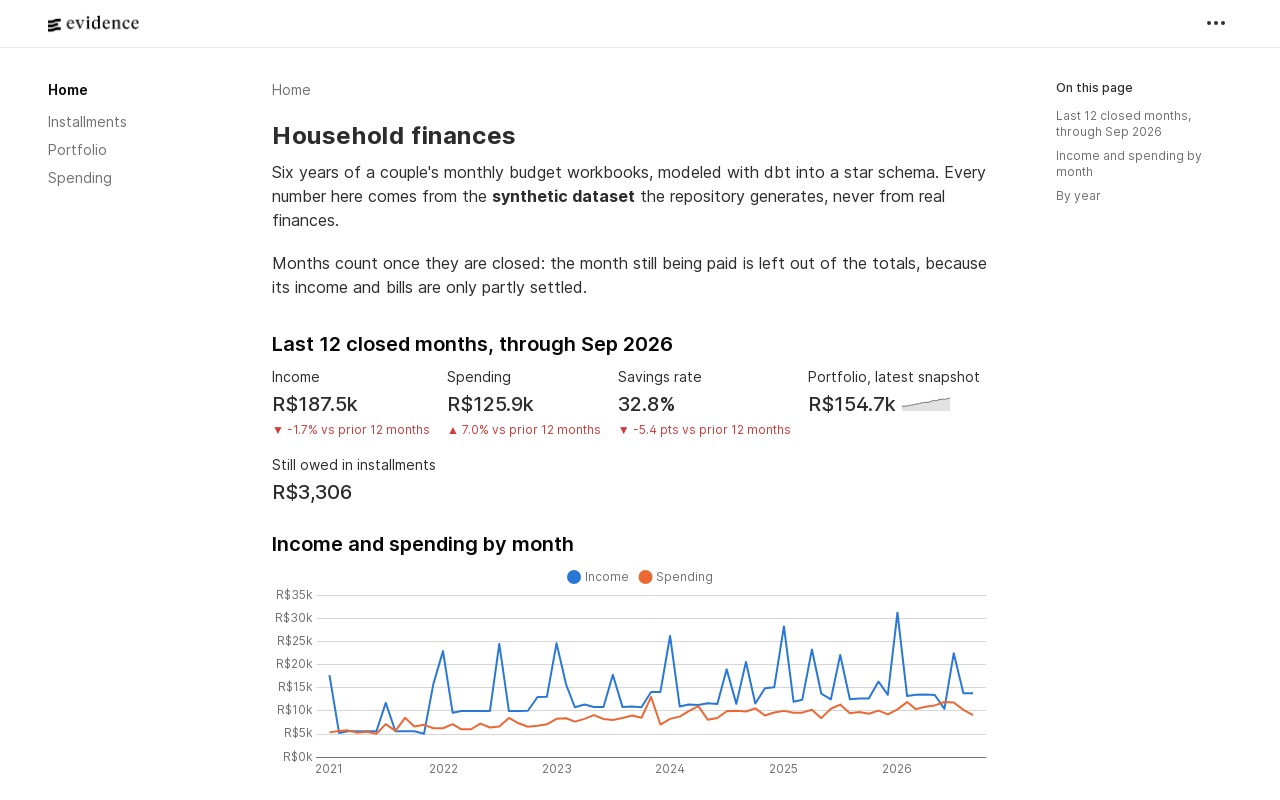
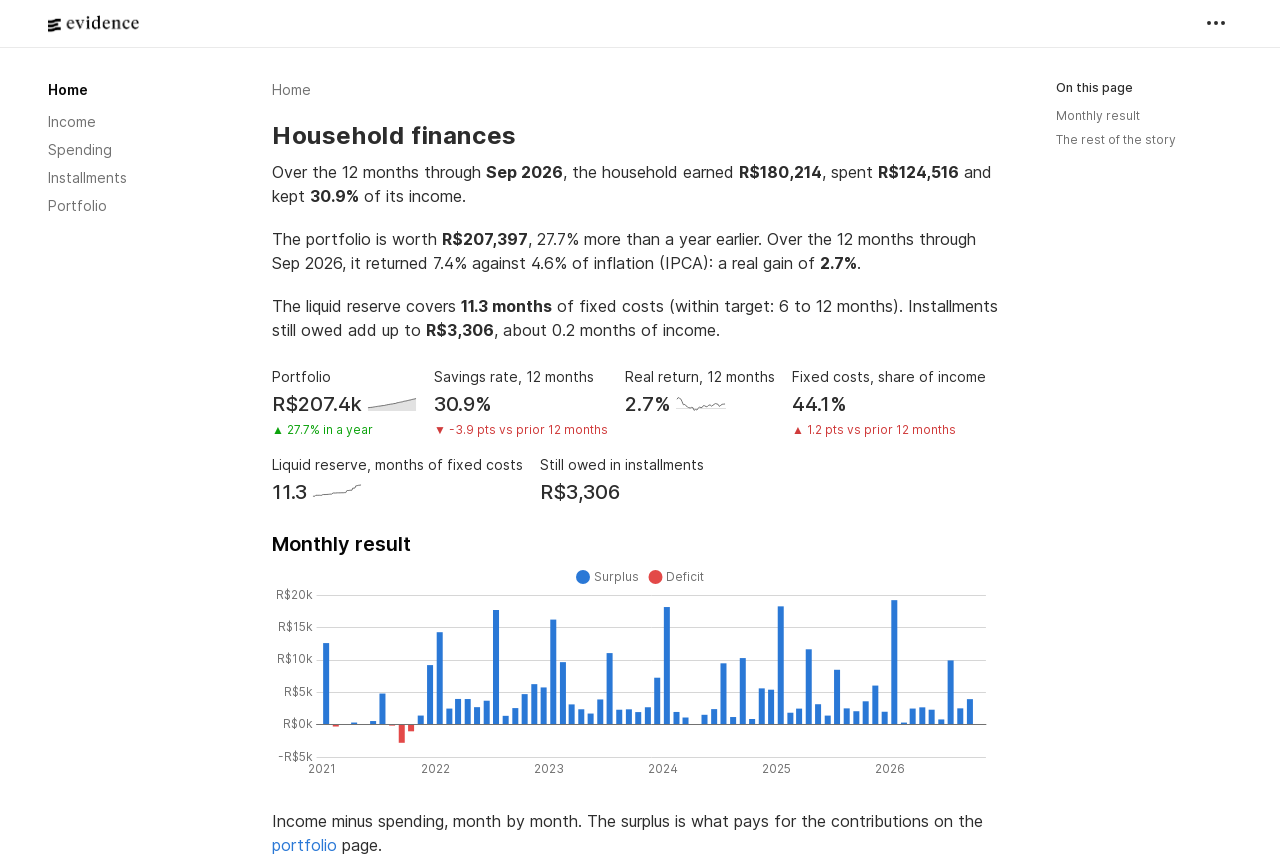
docs: describe the storytelling dashboard and the new marts

diff --git a/README.md b/README.md
@@ -35,6 +35,8 @@ The real workbooks hold a household's finances, so they never leave the owners' 
 - card purchases split into `(k/N)` installments that cross year boundaries
 - a portfolio sheet that stacks one block per snapshot, repeats the whole history in every year's file and gains columns over time
 - hand-typed noise: case and whitespace drift, legacy categories, blank macro-categories, stray highlight colors
+- a portfolio that agrees with the budget: the budget's investment rows are exactly what enters the portfolio, a maturing position is reinvested inside it, and dividends follow the fund position
+- a one-off asset sale received in installments and typed on the income side, which must not count as income
 
 Output is deterministic for a given seed, so tests and CI always see the same data.
 
@@ -47,7 +49,9 @@ Star schema built by dbt in three layers: staging cleans and types the raw table
 | `fct_transactions` | Fact | One row per transaction | Credits and debits, with installment and effective-amount flags |
 | `fct_installments` | Fact | One row per installment of every purchase | Full installment plans, including installments outside the workbooks' years; answers how much is still owed |
 | `fct_portfolio_snapshots` | Fact | One row per asset per reference date | Investment portfolio history |
-| `fct_monthly_cashflow` | Fact | One row per closed budget month | Income, spending (fixed / variable), investments and savings; the dashboard's metrics, defined once |
+| `fct_monthly_cashflow` | Fact | One row per closed budget month | Operating income, dividends, one-off income, spending (fixed / variable), investments and savings; the dashboard's metrics, defined once |
+| `fct_net_worth` | Fact | One row per portfolio snapshot | Value, contributions, modified Dietz return and inflation over the same periods (12 months and year to date), liquid reserve against its target |
+| `fct_inflation_monthly` | Fact | One row per month | Official inflation (IPCA) with its price index, 12-month and year-to-date rates |
 | `dim_date` | Dimension | One row per day | Generated calendar |
 | `dim_category` | Dimension | One row per category | Category, macro-category (fixed / variable), type |
 | `dim_owner` | Dimension | One row per owner | Derived from cell colors |
@@ -61,25 +65,27 @@ Star schema built by dbt in three layers: staging cleans and types the raw table
 - dbt data tests on every staging key and accepted-value set, plus source freshness on the raw tables
 - dbt unit tests that pin the modeling rules (installment parsing, per-workbook theme colors, card precedence, macro-category fallback, snapshot dedup, asset aliases, installments outside the workbooks) on hand-made rows
 - Relationship tests from every fact key to its dimension
-- Reconciliation tests: every raw transaction reaches the fact with its amount, each portfolio snapshot total matches its newest source file, each installment plan adds up to its purchase, and the monthly cash flow adds up to the transactions it summarizes
+- Reconciliation tests: every raw transaction reaches the fact with its amount, each portfolio snapshot total matches its newest source file, each installment plan adds up to its purchase, the monthly cash flow adds up to the transactions it summarizes, and every contribution and dividend lands in exactly one portfolio period
+- Unit tests for the metric rules too: closed months only, asset sales outside income, the modified Dietz return (checked to fail when the formula is broken) and the 12-month requirement of the reserve
 - Range and row-count checks with `dbt_expectations`, plus a custom generic test (`is_first_day_of_month`) on every `budget_month`
 - Every model and source column documented, shared definitions written once as doc blocks
 - `dbt build` on every pull request, on a warehouse rebuilt from the synthetic workbooks, followed by a strict dashboard build that fails on any broken query or component
 
 ## Dashboard
 
-![Dashboard overview: income, spending and savings rate for the last 12 closed months, and income against spending by month](docs/img/dashboard-overview.png)
+![Executive summary: a written summary of the last 12 months, six KPIs and the monthly result](docs/img/dashboard-overview.png)
 
-Four Evidence pages (`dashboards/`) over the marts, built as a static site:
+Five Evidence pages (`dashboards/`) over the marts, built as a static site. They read as one story, in the order a CFO would ask:
 
-| Page | Answers |
-| --- | --- |
-| Overview | Income, spending and savings rate over the last 12 closed months against the 12 before; income against spending by month; savings rate by year |
-| Spending | How fixed and variable costs evolved; spending by category and by card for a chosen year |
-| Installments | How much is still owed and when each month's installments fall due, including installments past the newest workbook; open purchases |
-| Portfolio | Portfolio value over time, its mix by asset class and the holdings in the latest snapshot |
+| Page | Question | Highlights |
+| --- | --- | --- |
+| Household finances | Is the household healthy? | A summary written from the numbers; portfolio, savings rate, real return, fixed-cost share, liquid reserve and installments owed; surplus or deficit by month |
+| Income | Where does the money come from, and how stable is it? | Operating income and its real growth; income by source and by owner; dividends as a share of spending; one-off money kept apart |
+| Spending | Where does it go, and what changed? | Real spending growth; the categories that moved most in a year; spending against income and inflation, indexed; fixed against variable costs |
+| Installments | How much of the future is committed? | Amount still owed, in months of income; what falls due each month, past the newest workbook; open purchases |
+| Portfolio | Does it grow from contributions or returns, and does it beat inflation? | Value against invested capital; return against IPCA by year and over rolling 12 months; liquid reserve against its 6–12 month band; maturity ladder; concentration; dividends |
 
-The metrics live in dbt (`fct_monthly_cashflow`), where they are tested and documented; Evidence only reads the marts and filters them. A month counts once it is closed, so the month still being paid doesn't drag the totals down.
+The metrics live in dbt (`fct_monthly_cashflow`, `fct_net_worth`, `fct_inflation_monthly`), where they are tested and documented; Evidence only reads the marts and filters them. A month counts once it is closed, so the month still being paid doesn't drag the totals down.
 
 ## Bugs the synthetic data caught
 
@@ -126,6 +132,9 @@ No credentials or real data needed. The ingestion is idempotent: re-running on t
 - **Decision:** English names for everything the project defines, source values left in Portuguese. **Why:** the code and models read for an international audience, while the raw layer stays a faithful copy of the workbooks (`'Sim'`, `'Mercado'`, `'Fixo'`). **Trade-off:** staging has to map the Portuguese values that drive logic, such as the paid flag and the special categories.
 - **Decision:** keep the raw layer literal (installment suffixes and raw color codes untouched). **Why:** parsing rules can change and be replayed in dbt without re-reading the workbooks. **Trade-off:** the raw tables are not directly queryable for analysis.
 - **Decision:** resolve both `rgb` and `theme` color references. **Why:** Google Sheets exports the same visible color either as a hex value or as a theme index, depending on how it was applied. The ingestion loads each workbook's theme palette into `raw.workbook_themes`, so dbt resolves a theme index against the file it came from. **Trade-off:** one more raw table, and theme tints are not applied (the owner colors in these workbooks have none).
+- **Decision:** keep money from selling an asset (the `'Investimentos'` income category) out of income, as non-operating income. **Why:** it is real cash in but doesn't repeat; counted as income, it would inflate the savings rate of the year it lands in. **Trade-off:** the split lives in a seed (`income_groups`) that has to follow how the categories are used.
+- **Decision:** measure the portfolio's return with the modified Dietz method, taking the recorded contributions as the only external flow and counting dividends as return. **Why:** the workbooks record contributions but not withdrawals (a maturing asset is reinvested inside the portfolio), and Dietz handles flows in the middle of a period without daily valuations. **Trade-off:** a withdrawal to spend that isn't recorded understates that period's return; it can't overstate it.
+- **Decision:** official inflation (IPCA) as a versioned seed from the Central Bank's public API, compounded over the same periods as the return. **Why:** the build stays reproducible and offline, and "did we beat inflation?" compares like with like. **Trade-off:** the seed is refreshed by hand when a new month is published.
 - **Decision:** define the dashboard's metrics in a dbt mart (`fct_monthly_cashflow`) and keep the Evidence queries to selects and filters. **Why:** income, spending and savings get one tested, documented definition, and any other tool reading the warehouse adds them up the same way. **Trade-off:** a new metric means a dbt change, not only a dashboard edit.
 - **Decision:** open-source Evidence (`@evidence-dev/evidence`) built to a static site. **Why:** it deploys anywhere static files go, with no account or server, and builds in CI on the same synthetic warehouse. **Trade-off:** Evidence's project template now points to its hosted product, Evidence Studio, which has a different syntax; moving there later would mean rewriting the pages.
 - **Decision:** detect the debit-side layout from the header row instead of fixed positions. **Why:** a column was added in 2022, so 2021 workbooks have a different layout. **Trade-off:** the header detection has to be tested against both layouts.

diff --git a/docs/data-model.md b/docs/data-model.md
@@ -171,12 +171,14 @@ on debits and `payment_method_key` on credits, which a test enforces.
 | Model | Grain | Key columns |
 |---|---|---|
 | `dim_date` | one row per day, 2020-01-01 to 2030-12-31 | `date_day`, year, month, quarter, month name, weekday, is_weekend, first/last day of month |
-| `dim_category` | one row per category and type | `category_key`, `category`, `macro_category`, `category_type` |
+| `dim_category` | one row per category and type | `category_key`, `category`, `macro_category`, `category_type`; for income, `income_group` and `is_operating` (seed `income_groups`) |
 | `dim_owner` | one row per owner | `owner_key`, `owner`, `source_color` (`'#4BACC6'`) |
 | `dim_payment_method` | one row per payment method | `payment_method_key`, `payment_method`, `method_type` (`'credit_card'` / `'other'`), `source_color` |
 | `fct_transactions` | one row per transaction | `transaction_id`; FKs to the dims for `transaction_date`, `budget_month`, category, owner, payment method; `purchase_id` for installments; `amount`, `effective_amount` (amount if effective, else 0), `signed_effective_amount` (+ credits, − debits); the flags and installment columns of staging |
 | `fct_installments` | one row per installment of every purchase | `installment_id`, `purchase_id`, `installment_number`, `budget_month`, `transaction_id` (NULL outside the workbooks), `amount`, `outstanding_amount`, `is_recorded`, `is_settled` (6.9) |
-| `fct_monthly_cashflow` | one row per closed budget month (6.10) | `budget_month`, `income`, `spending`, `fixed_spending`, `variable_spending`, `unclassified_spending`, `invested`, `savings` (`income − spending`) |
+| `fct_monthly_cashflow` | one row per closed budget month (6.10) | `budget_month`, `income` (operating), `non_operating_income`, `dividends`, `spending`, `fixed_spending`, `variable_spending`, `unclassified_spending`, `invested`, `savings` (`income − spending`) |
+| `fct_net_worth` | one row per portfolio snapshot (6.11) | `reference_date`, `total_value`, `liquid_reserve`, `contributions`, `dividends`, `period_return`, `period_inflation`, `return_12m`, `inflation_12m`, `real_return_12m`, the same year to date, `runway_months`, `reserve_months`, `reserve_status` |
+| `fct_inflation_monthly` | one row per month (6.12) | `month`, `ipca_pct`, `ipca_rate`, `price_index`, `ipca_12m`, `ipca_ytd` |
 | `fct_portfolio_snapshots` | one row per asset per reference date | `snapshot_id` (`hash(reference_date\|bank\|asset)`), `reference_date`, `bank`, `asset`, `asset_class` (`'Real estate fund'` / `'Fixed income'` / `'Multimarket fund'` / `'Crypto'` / `'Cash'` / `'Other'`), `gross_value`, `allocation_pct`, `maturity_date`, `mom`, `yoy` |
 
 ## 5. Source → model mapping
@@ -391,14 +393,48 @@ them up the same way:
 - **Closed months only**: months before the as-of month (6.9). The as-of
   month is still being paid, so its income and bills are only partly in.
   Both models take the as-of month from the same macro, `as_of_month()`.
-- **Income**: `effective_amount` of credits. **Spending**: `effective_amount`
-  of debits, so investment contributions (not effective) are left out and
-  card adjustments (negative) lower it.
+- **Income**: `effective_amount` of credits in operating categories. A credit
+  in `'Investimentos'` is money from selling an asset: real cash in, but it
+  doesn't repeat, so it goes to `non_operating_income` and stays out of the
+  savings rate (seed `income_groups`, `is_operating = false`). Dividends are
+  operating income and also get their own column. **Spending**:
+  `effective_amount` of debits, so investment contributions (not effective)
+  are left out and card adjustments (negative) lower it.
 - **Fixed / variable / unclassified**: spending split by the category's
   macro-category; unclassified covers `'Unknown'` and blanks. The three add
   up to spending (tested).
 - **Invested**: settled investment contributions. **Savings**: income −
   spending, i.e. what was invested plus what stayed in the account.
+
+### 6.11 Portfolio return and liquid reserve
+
+`fct_net_worth` has one row per snapshot:
+
+- **External flows**: the settled investment contributions dated after the
+  previous snapshot, up to this one (a row without a date counts at
+  mid-month). The workbooks record contributions only: a maturing asset is
+  reinvested inside the portfolio and books nothing, and a withdrawal to
+  spend isn't recorded, which understates that period's return.
+- **Return of a period** (modified Dietz): `(value − previous value −
+  contributions + dividends) / (previous value + contributions / 2)`.
+  Dividends are paid into the account, so they count as return.
+- **Against inflation**: IPCA is compounded over the months of each period
+  (after the previous snapshot's month, up to this one's), then returns and
+  inflation are chained over the last 12 periods and over the year, and
+  `real = (1 + return) / (1 + inflation) − 1`. NULL while a month isn't
+  published or there are fewer than 12 periods.
+- **Liquid reserve**: the cash balance plus fixed income with no maturity
+  date (daily liquidity), in months of the average fixed spending of the 12
+  closed months up to the snapshot's month. The target band is 6 to 12
+  months (vars `reserve_min_months`, `reserve_max_months`).
+- **Runway**: the whole portfolio in months of average spending.
+
+### 6.12 Inflation
+
+Seed `ipca_monthly` holds the official IPCA, monthly, from the Central
+Bank's public API (SGS series 433), refreshed by hand.
+`fct_inflation_monthly` adds the price index (100 before the first month)
+and the 12-month and year-to-date rates, compounded from the monthly ones.
 
 ## 7. Decisions
 
@@ -414,6 +450,9 @@ them up the same way:
 10. **Installments outside the workbooks** → rebuilt from the purchase plan in `fct_installments`
 11. **Past installments** → always paid in `fct_installments`, whatever the sheet says
 12. **Dashboard metrics** → defined in `fct_monthly_cashflow`, over closed months only; Evidence only selects and filters
+13. **Money from selling an asset** → non-operating income, outside income and the savings rate
+14. **Portfolio return** → modified Dietz, recorded contributions as the only external flow, dividends as return; compared with IPCA over the same periods
+15. **Liquid reserve** → cash plus fixed income with no maturity; target 6 to 12 months of fixed spending
 
 ## 8. Bugs found with the synthetic data (fixed)
 
